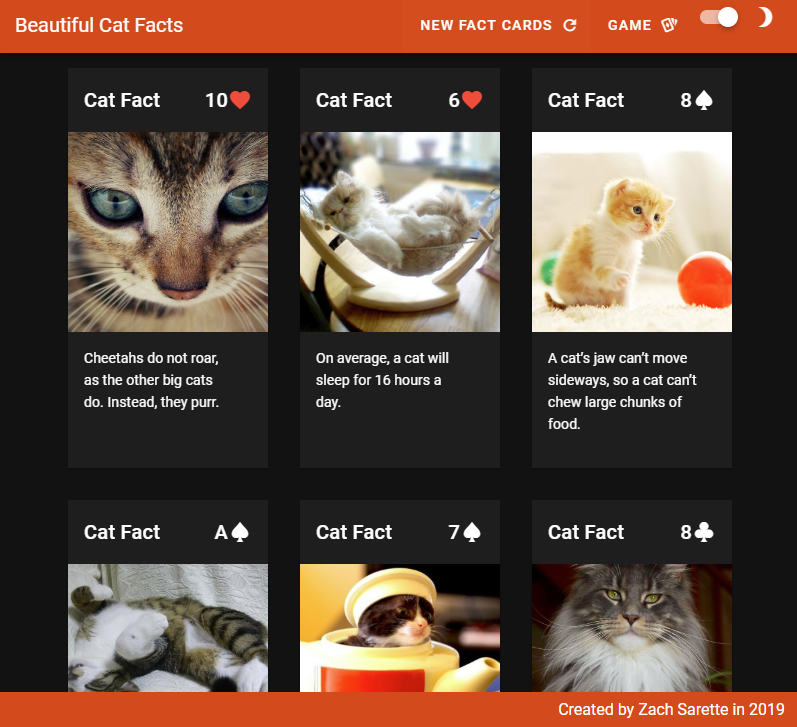
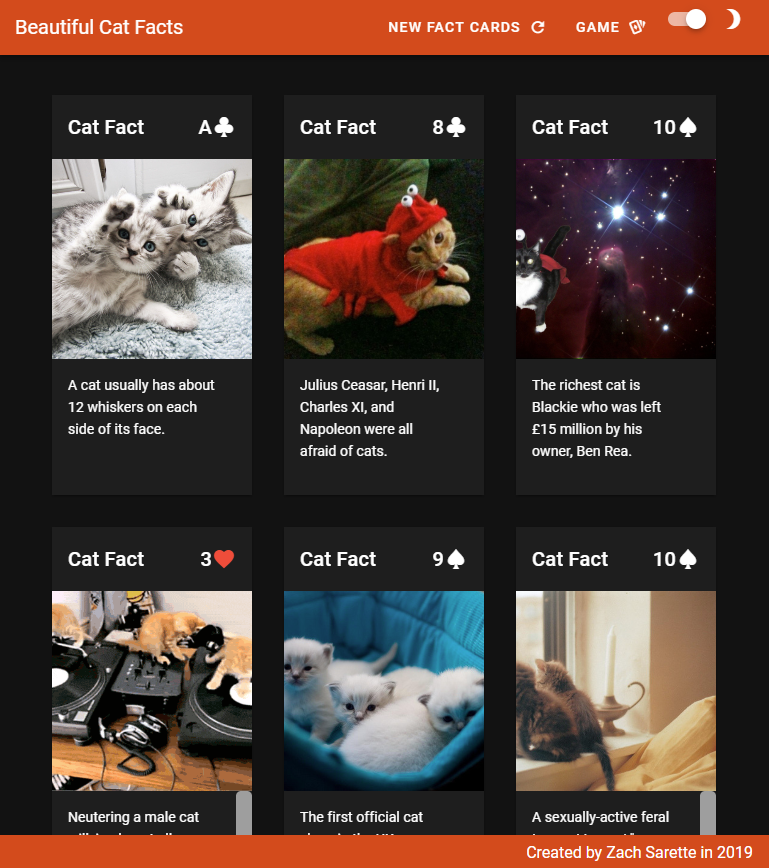
Updates readme with mobile screen shots and new desktop shots.

diff --git a/README.md b/README.md
@@ -4,13 +4,15 @@
 
 > A toy Vue JS app that displays randomized cat facts and pictures.
 
-__Desktop Light Mode__
 
-<img width="700" src="./beautiful-cat-facts-desktop-light.PNG" alt="Beautiful Cat Facts Desktop Light Mode Screen Shot"/>
+| __Desktop Light Mode__ | __Desktop Dark Mode__ |
+| --- | --- |
+| <img width="300" src="./beautiful-cat-facts-desktop-light.PNG" alt="Beautiful Cat Facts Desktop Light Mode Screen Shot"/> | <img width="300" src="./beautiful-cat-facts-desktop-dark.PNG" alt="Beautiful Cat Facts Desktop Dark Mode Screen Shot"/> |
 
-__Desktop Dark Mode__
+| __Mobile Light Mode__ | __Mobile Dark Mode__ |
+| --- | --- |
+| <img width="300" src="./beautiful-cat-facts-mobile-light.png" alt="Beautiful Cat Facts Desktop Light Mode Screen Shot"/> | <img width="300" src="./beautiful-cat-facts-mobile-dark.png" alt="Beautiful Cat Facts Desktop Dark Mode Screen Shot"/> |
 
-<img width="700" src="./beautiful-cat-facts-desktop-dark.PNG" alt="Beautiful Cat Facts Desktop Dark Mode Screen Shot"/>
 
 ## Project setup
 
